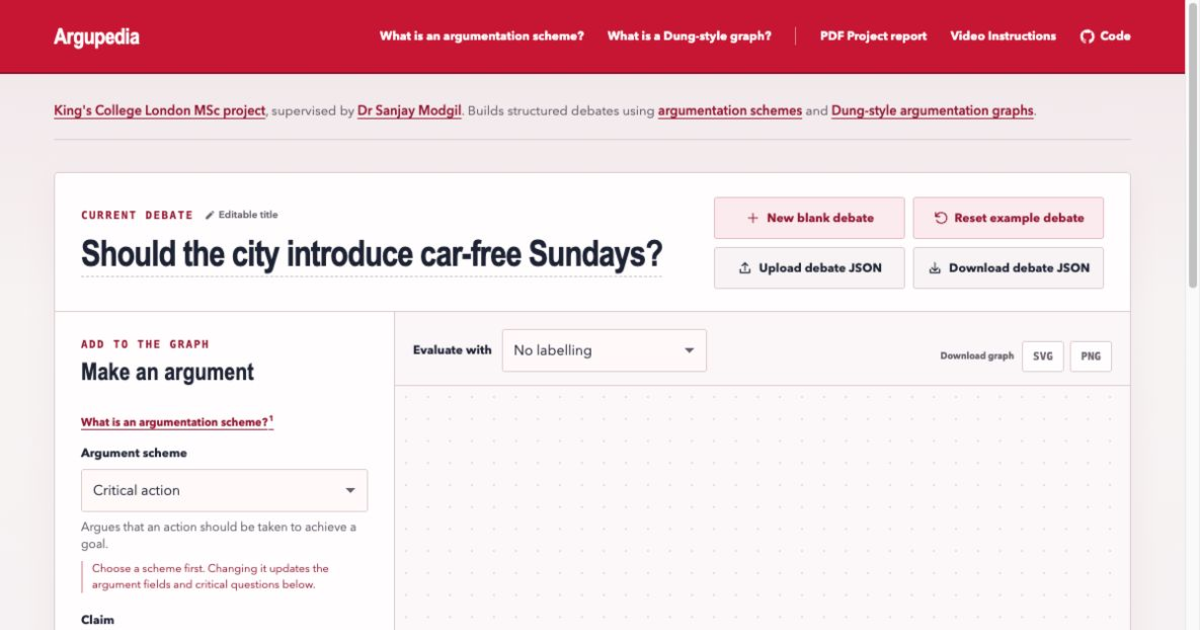
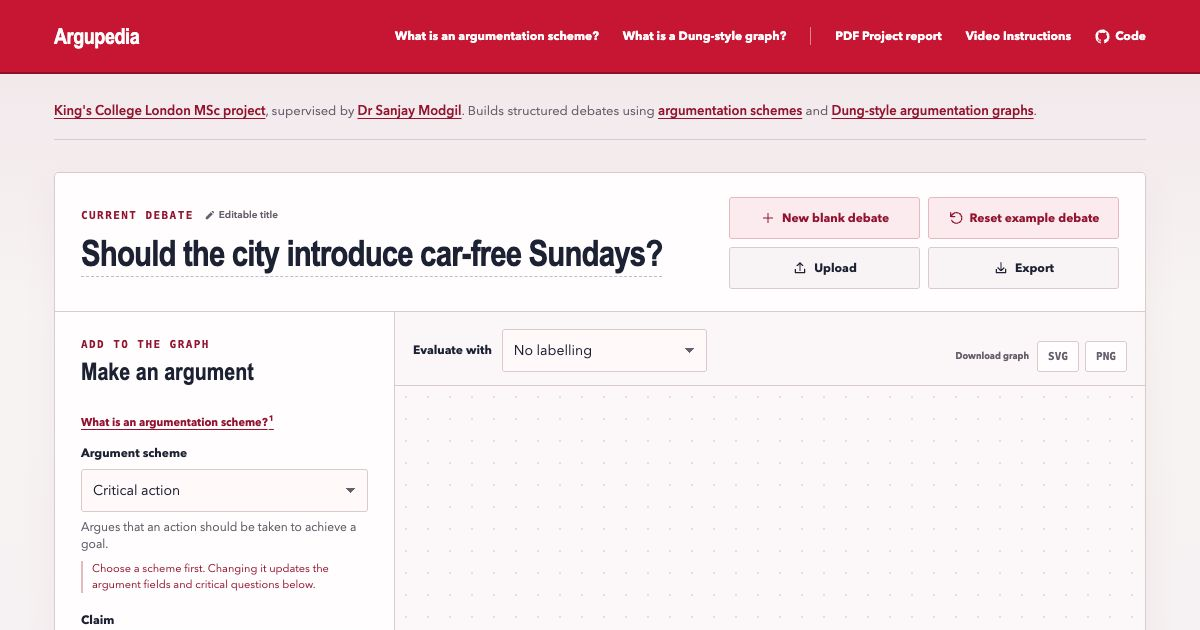
Shorten debate transfer labels

diff --git a/index.html b/index.html
@@ -62,11 +62,11 @@
               </button>
               <button class="button button-file" id="import-debate" type="button" title="Open an editable debate from a JSON file">
                 <svg aria-hidden="true" viewBox="0 0 24 24"><path d="M12 16V4m0 0L7.5 8.5M12 4l4.5 4.5M5 14v5h14v-5"/></svg>
-                <span>Upload debate JSON</span>
+                <span>Upload</span>
               </button>
               <button class="button button-file" id="export-debate" type="button" title="Save this editable debate as a JSON file">
                 <svg aria-hidden="true" viewBox="0 0 24 24"><path d="M12 4v12m0 0 4.5-4.5M12 16l-4.5-4.5M5 14v5h14v-5"/></svg>
-                <span>Download debate JSON</span>
+                <span>Export</span>
               </button>
               <input id="debate-file" type="file" accept="application/json,.json" hidden />
             </div>

diff --git a/README.md b/README.md
@@ -39,7 +39,7 @@ The conceptual foundation combines [argumentation schemes and critical questions
 
 ## Debate files and privacy
 
-Argupedia runs entirely in the browser. The current debate is stored in `localStorage`; it is not uploaded or visible to anyone else. **Download debate JSON** creates a portable, editable debate file. **Upload debate JSON** opens one of those files locally after validating its structure.
+Argupedia runs entirely in the browser. The current debate is stored in `localStorage`; it is not uploaded or visible to anyone else. **Export** creates a portable, editable debate file. **Upload** opens one of those files locally after validating its structure.
 
 JSON is the canonical interchange format. SVG and PNG exports are visual snapshots of the currently selected semantics and extension.
 
